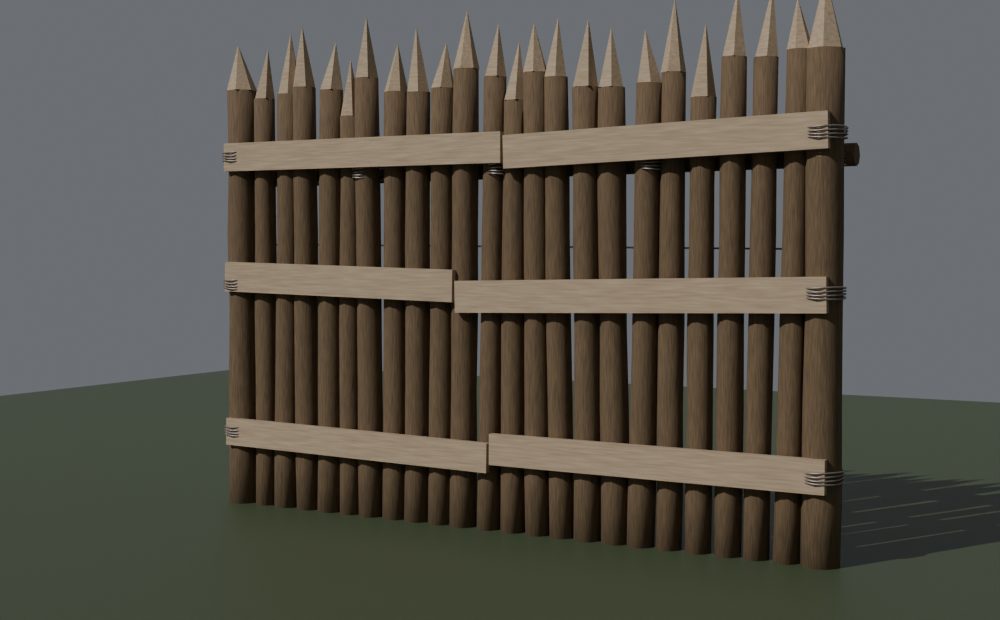
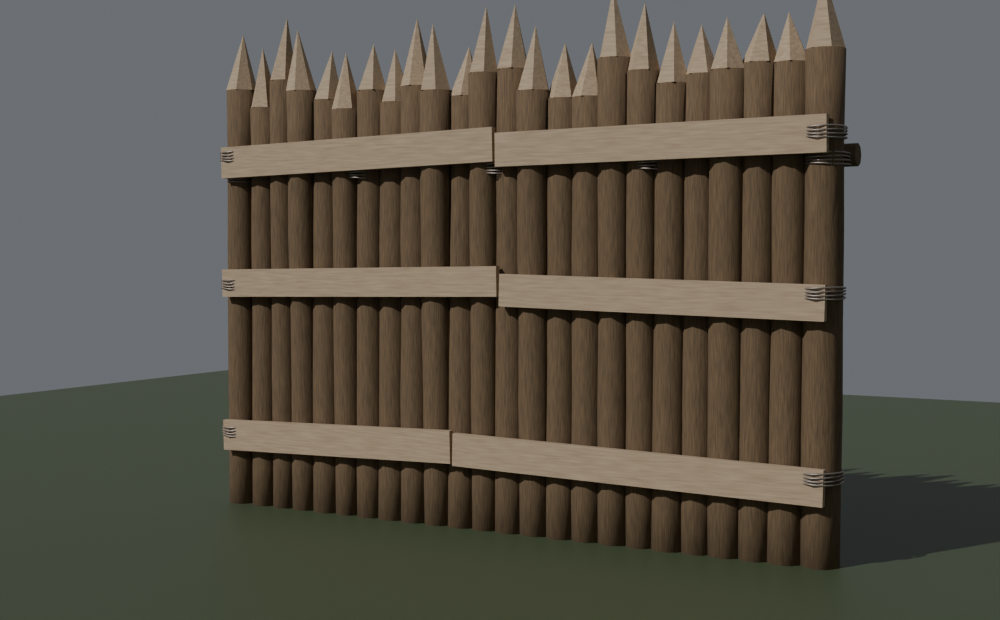
Palisade model: overlap logs so the wall has no gaps
Claude-Session: https://claude.ai/code/session_01A7p2drATSDftRn4DARUYiV

Changed region(s): [[0.217, 0.0, 0.868, 0.9194]]

diff --git a/DayZ_Palisade/blender/create_palisade.py b/DayZ_Palisade/blender/create_palisade.py
@@ -32,12 +32,13 @@ from mathutils import Matrix, Vector
 # ----------------------------------------------------------------- SETTINGS --
 WIDTH         = 4.2     # wall length between corner posts (m)
 LOG_COUNT     = 22      # vertical logs
-LOG_RADIUS    = 0.085   # average log radius
-LOG_TAPER     = 0.92    # top radius = bottom radius * taper
+LOG_OVERLAP   = 1.18    # logs are thicker than their spacing -> no gaps between them
+LOG_RADIUS    = WIDTH / LOG_COUNT / 2 * LOG_OVERLAP   # derived average radius
+LOG_TAPER     = 0.97    # top radius = bottom radius * taper
 HEIGHT        = 3.0     # log height above ground (without spike)
 HEIGHT_RAND   = 0.15    # random +- height
-TILT_DEG      = 1.2     # random lean of each log
-BARK_JITTER   = 0.07    # radial noise of the bark (fraction of radius)
+TILT_DEG      = 1.2     # random lean of each log (front/back only, so no gaps open)
+BARK_JITTER   = 0.05    # radial noise of the bark (fraction of radius)
 SPIKE_HEIGHT  = (0.30, 0.48)   # min/max sharpened tip height
 SPIKE_SEGS    = 6       # axe facets on the tip
 BURY          = 0.15    # how deep logs go under ground (visual LODs only)
@@ -369,11 +370,11 @@ def make_layout():
 
     logs = []
     for i in range(LOG_COUNT):
-        x = -WIDTH / 2 + step * (i + 0.5) + rnd.uniform(-0.01, 0.01)
-        lean = Vector((rnd.uniform(-tilt, tilt), rnd.uniform(-tilt, tilt) * 0.5, 1))
+        x = -WIDTH / 2 + step * (i + 0.5)
+        lean = Vector((rnd.uniform(-tilt, tilt) * 0.1, rnd.uniform(-tilt, tilt), 1))
         logs.append(stake(Vector((x, 0, 0)), lean,
                           HEIGHT + rnd.uniform(-HEIGHT_RAND, HEIGHT_RAND),
-                          LOG_RADIUS * rnd.uniform(0.98, 1.15),
+                          LOG_RADIUS * rnd.uniform(0.97, 1.06),
                           P_DOWN if i % 2 == 0 else P_UP))
     posts = [stake(Vector((side * (WIDTH / 2 + POST_RADIUS), 0, 0)), UP,
                    HEIGHT + POST_EXTRA, POST_RADIUS, P_BASE) for side in (-1, 1)]
